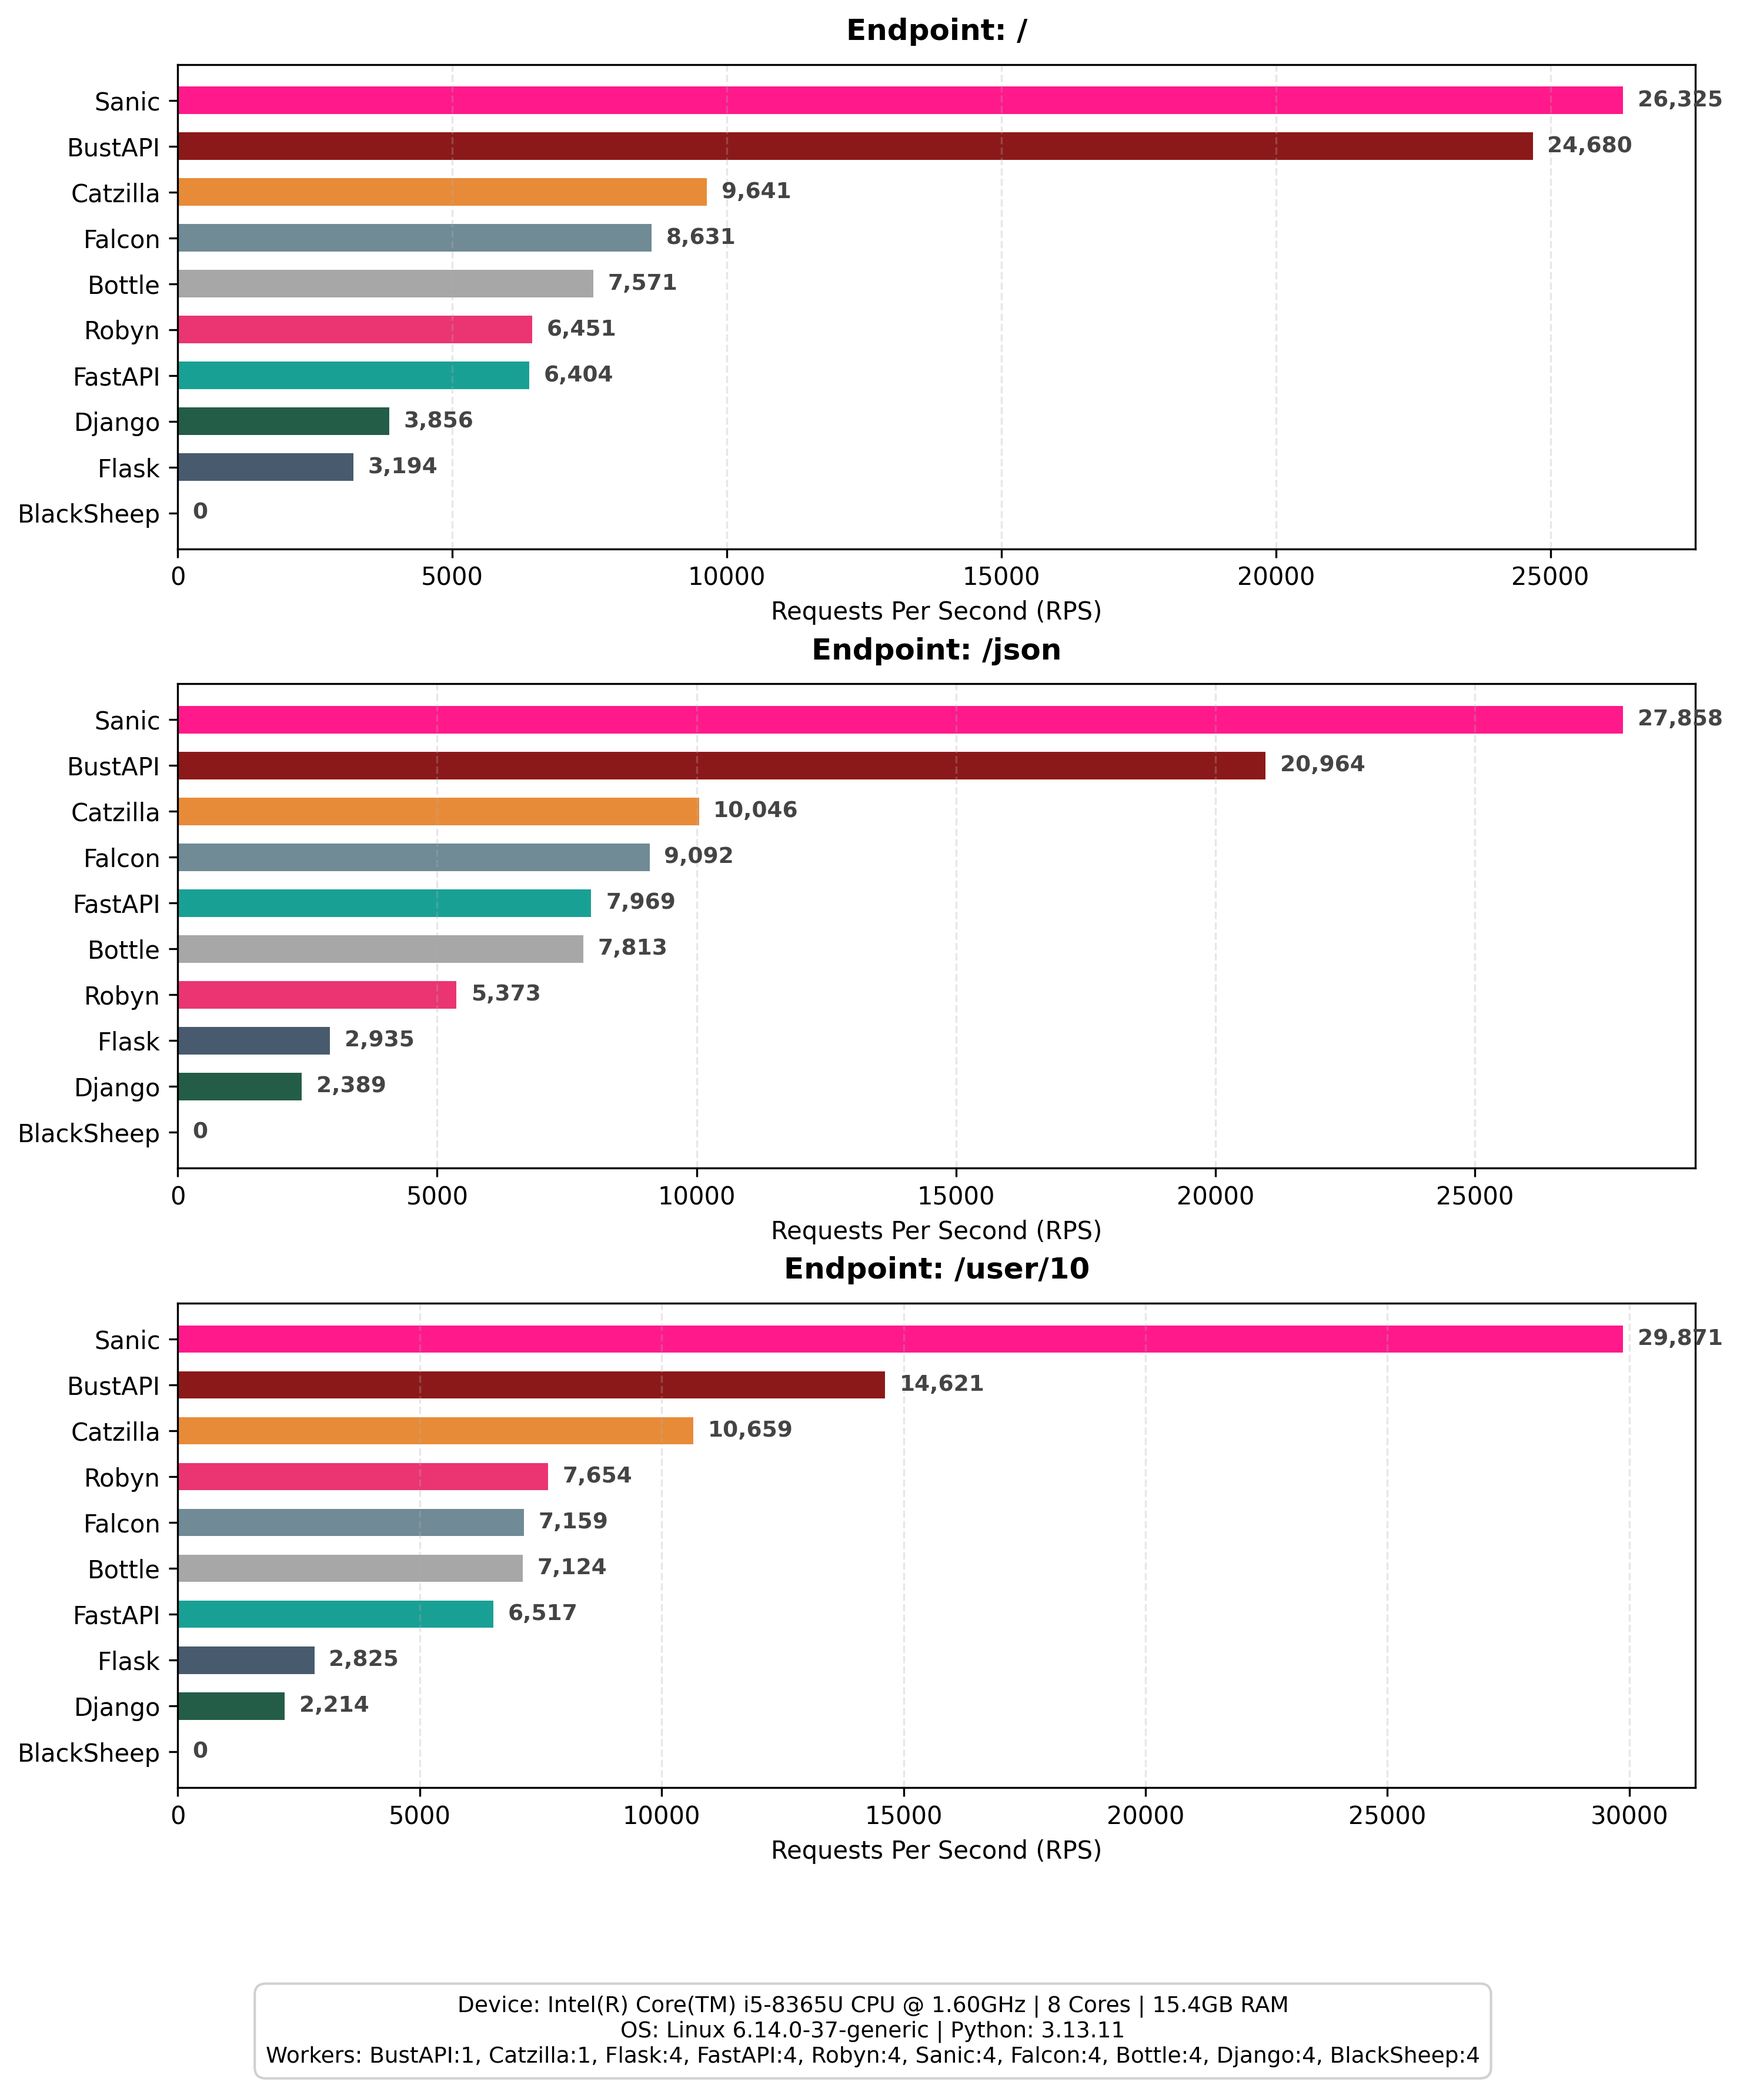
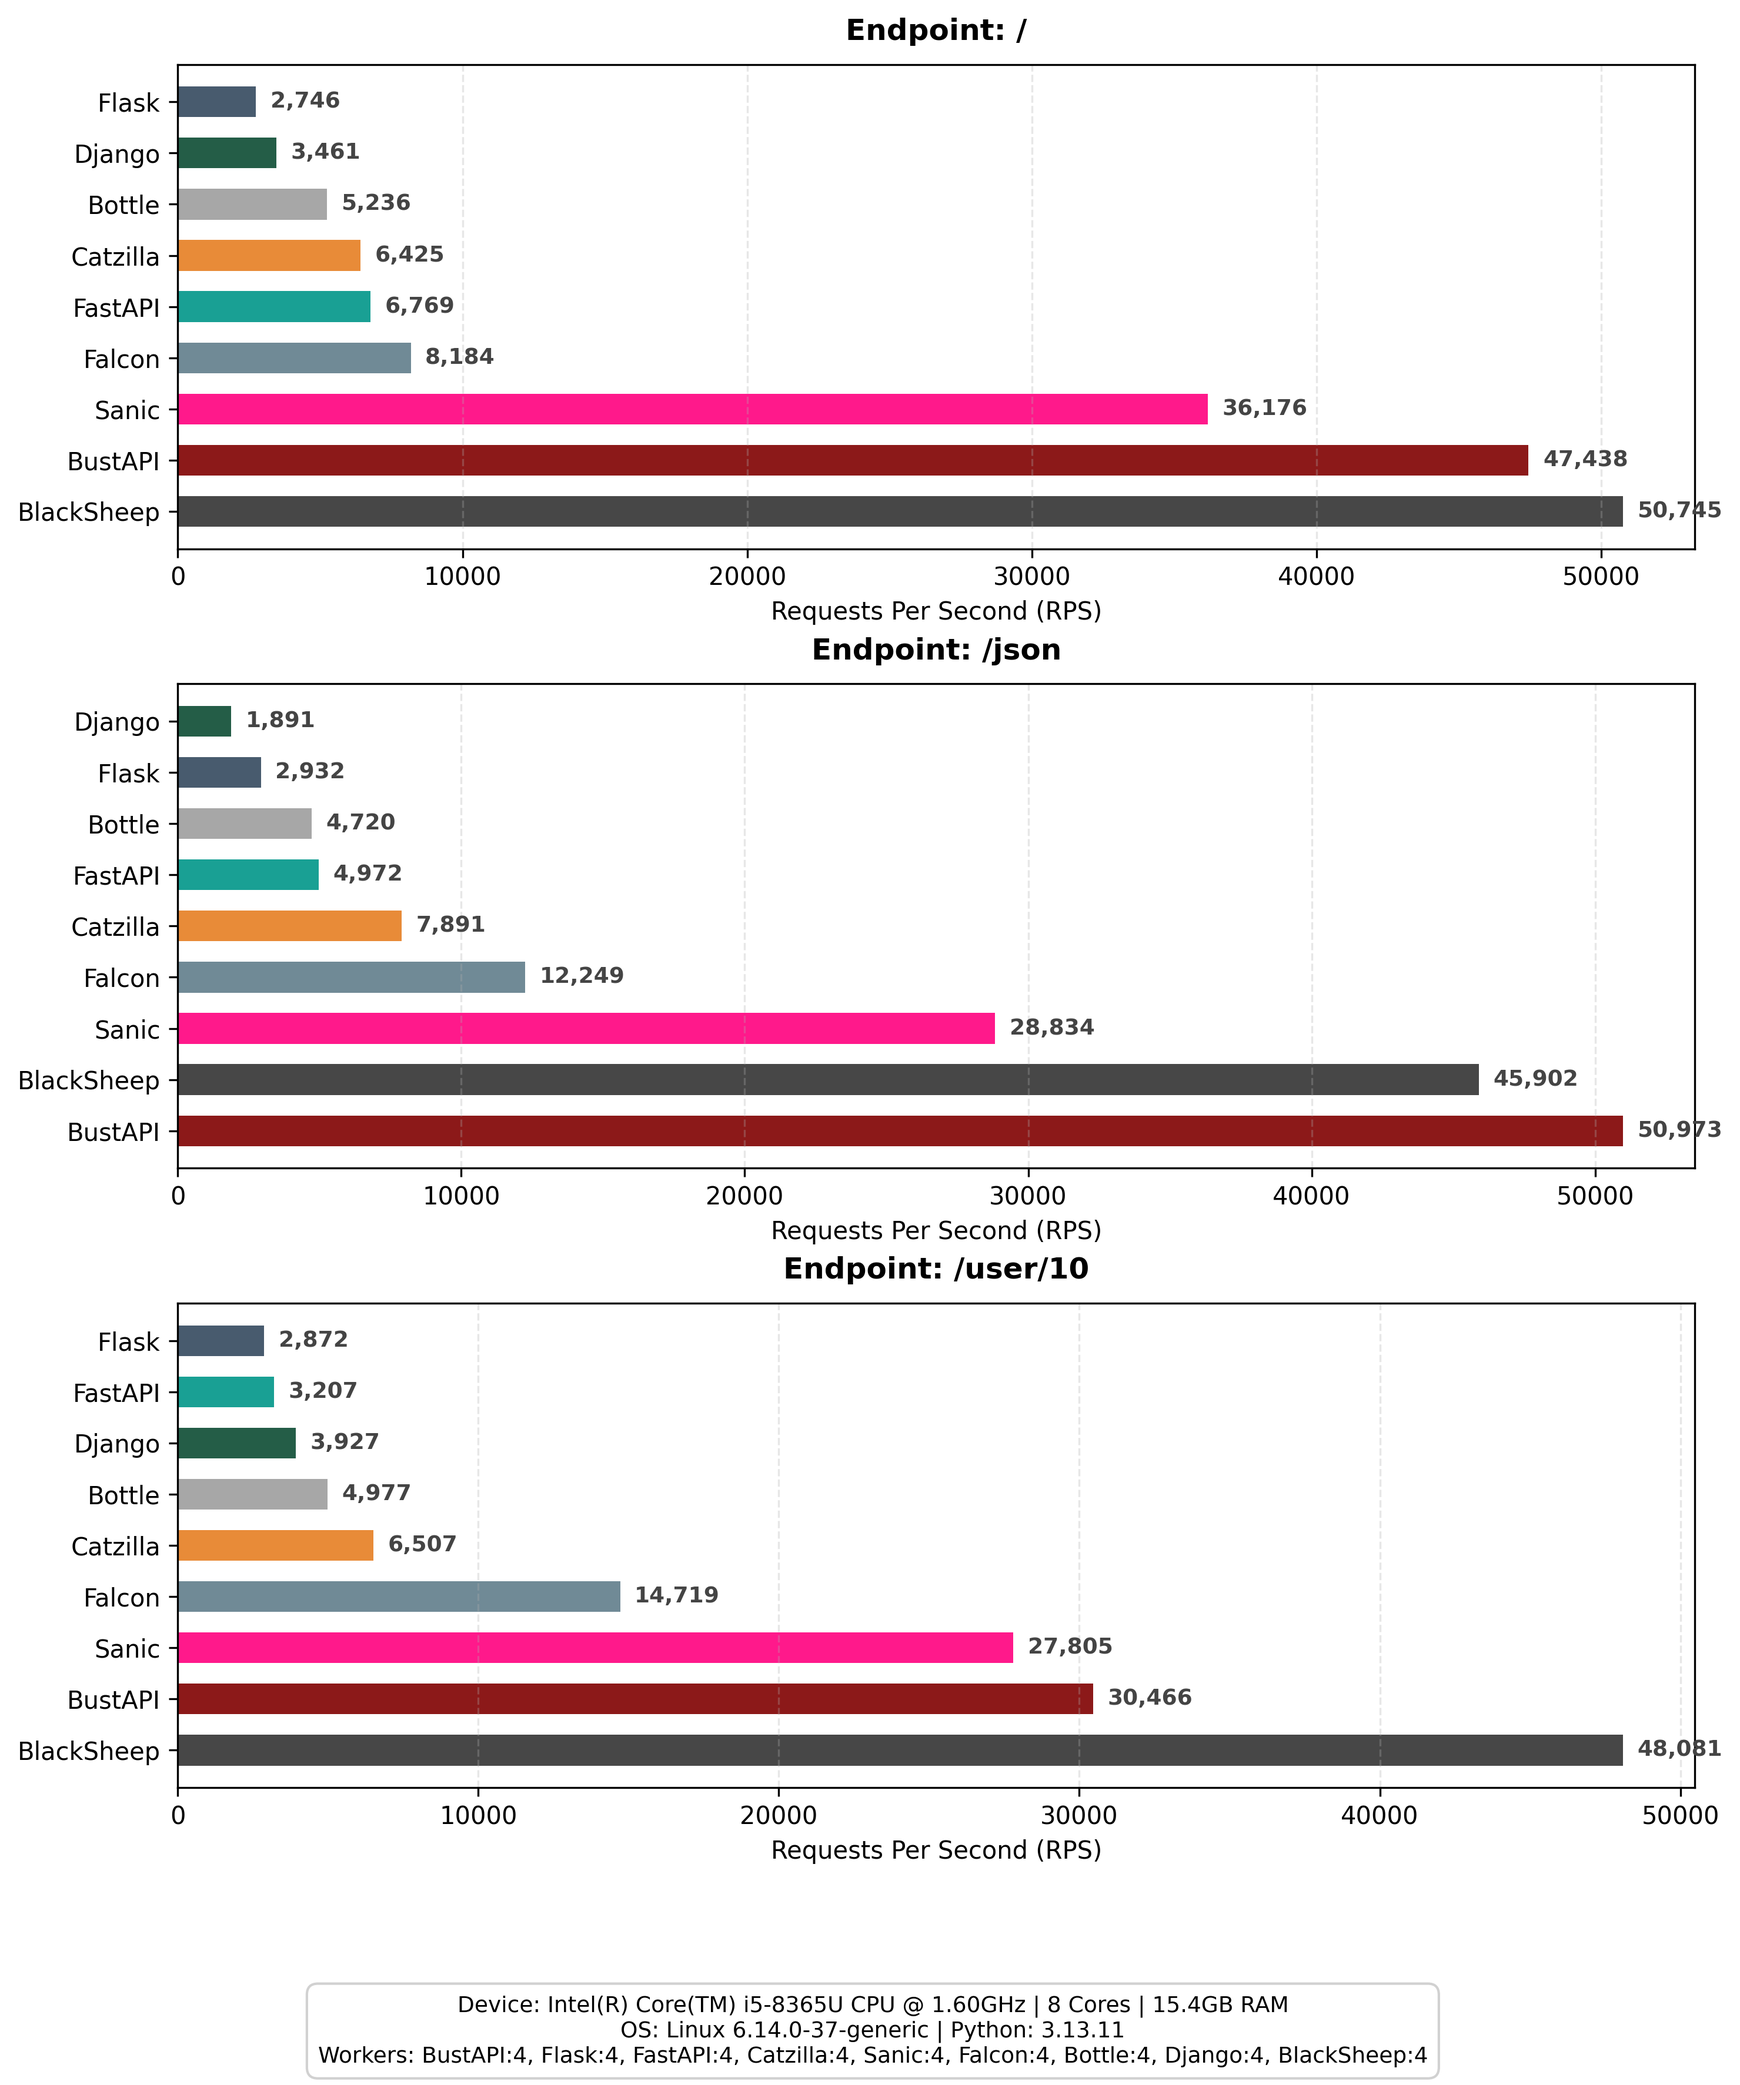
perf: Implement native multiprocessing runner (50k+ RPS)

diff --git a/python/bustapi/app.py b/python/bustapi/app.py
@@ -1115,8 +1115,53 @@ class BustAPI:
         if workers is None:
             # Default to 1 worker for debug/dev, or CPU count for prod key
             import multiprocessing
-
             workers = 1 if debug else multiprocessing.cpu_count()
+
+        # Handle Native Multiprocessing (Linux Only - SO_REUSEPORT)
+        # If server="rust" and workers > 1, we spawn processes instead of threads
+        import platform
+        if server == "rust" and workers > 1 and platform.system() == "Linux" and not debug:
+            import multiprocessing
+            import os
+            import signal
+            import sys
+            import time
+
+            # We are the parent process (Manager)
+            # We will spawn 'workers' children
+            
+            processes = []
+            print(f"🚀 Starting {workers} worker processes (Native Multiprocessing)...")
+            
+            def signal_handler(sig, frame):
+                print("\n🛑 Shutting down workers...")
+                for p in processes:
+                    if p.is_alive():
+                        p.terminate()
+                sys.exit(0)
+
+            signal.signal(signal.SIGINT, signal_handler)
+            signal.signal(signal.SIGTERM, signal_handler)
+
+            for i in range(workers):
+                # Each child runs the rust app with 1 internal worker thread
+                # The kernel loads balances via SO_REUSEPORT
+                p = multiprocessing.Process(
+                    target=self._rust_app.run,
+                    args=(host, port, 1, False),
+                    name=f"bustapi-worker-{i+1}"
+                )
+                p.start()
+                processes.append(p)
+
+            # Wait for all
+            try:
+                for p in processes:
+                    p.join()
+            except KeyboardInterrupt:
+                signal_handler(None, None)
+            
+            return
 
         # Server Dispatch
         if server == "rust":
@@ -1130,7 +1175,7 @@ class BustAPI:
         elif server == "uvicorn":
             try:
                 import uvicorn
-
+                
                 # We need to pass the app instance.
                 # If we are running from a script, we might not have the import path string handy easily
                 # But uvicorn.run can take an app instance directly.

diff --git a/benchmarks/README.md b/benchmarks/README.md
@@ -10,29 +10,29 @@
 
 ## 🏆 Throughput (Requests/sec)
 
-| Endpoint | Metrics | BustAPI (4w) | Catzilla (4w) | Flask (4w) | FastAPI (4w) | Robyn (4w) | Sanic (4w) | Falcon (4w) | Bottle (4w) | Django (4w) | BlackSheep (4w) |
-| :--- | :--- | :---: | :---: | :---: | :---: | :---: | :---: | :---: | :---: | :---: | :---: |
-| **`/`** | 🚀 RPS | **25,422** | **13,605** | **8,021** | **11,544** | **10,372** | 🥇 **72,774** | **16,573** | **15,504** | **3,975** | **52,141** |
-|  | ⏱ Avg Latency | 3.94ms | 7.99ms | 12.35ms | 8.79ms | 9.63ms | 1.37ms | 6.04ms | 6.28ms | 25.00ms | 1.94ms |
-|  | 📉 Max Latency | 17.26ms | 202.30ms | 33.24ms | 63.71ms | 29.91ms | 14.27ms | 51.29ms | 25.85ms | 95.72ms | 27.57ms |
-|  | 📦 Transfer | 3.13 MB/s | 1.92 MB/s | 1.27 MB/s | 1.62 MB/s | 1.14 MB/s | 8.12 MB/s | 2.50 MB/s | 2.45 MB/s | 0.70 MB/s | 7.31 MB/s |
-|  | 🔥 CPU Usage | 185% | 96% | 385% | 393% | 95% | 382% | 377% | 377% | 357% | 382% |
-|  | 🧠 RAM Usage | 59.5 MB | 387.8 MB | 159.6 MB | 254.1 MB | 34.9 MB | 243.2 MB | 148.0 MB | 125.7 MB | 188.0 MB | 218.3 MB |
-| | | --- | --- | --- | --- | --- | --- | --- | --- | --- | --- |
-| **`/json`** | 🚀 RPS | **25,763** | **14,063** | **7,681** | **9,729** | **10,070** | 🥇 **55,332** | **12,267** | **14,168** | **3,804** | **37,091** |
-|  | ⏱ Avg Latency | 3.91ms | 8.68ms | 12.91ms | 10.32ms | 9.99ms | 2.05ms | 7.96ms | 7.01ms | 25.66ms | 3.15ms |
-|  | 📉 Max Latency | 20.66ms | 254.78ms | 35.23ms | 44.86ms | 30.09ms | 82.04ms | 41.08ms | 38.54ms | 80.60ms | 88.86ms |
-|  | 📦 Transfer | 3.07 MB/s | 1.52 MB/s | 1.19 MB/s | 1.32 MB/s | 1.14 MB/s | 5.91 MB/s | 1.91 MB/s | 2.20 MB/s | 0.66 MB/s | 5.02 MB/s |
-|  | 🔥 CPU Usage | 187% | 96% | 517% | 384% | 96% | 380% | 366% | 379% | 355% | 367% |
-|  | 🧠 RAM Usage | 59.0 MB | 761.4 MB | 159.6 MB | 255.4 MB | 35.2 MB | 243.3 MB | 148.2 MB | 126.0 MB | 188.2 MB | 218.9 MB |
-| | | --- | --- | --- | --- | --- | --- | --- | --- | --- | --- |
-| **`/user/10`** | 🚀 RPS | **16,606** | **13,112** | **6,769** | **8,821** | **9,344** | 🥇 **63,029** | **14,133** | **13,112** | **4,213** | **46,519** |
-|  | ⏱ Avg Latency | 7.35ms | 10.40ms | 14.65ms | 11.19ms | 10.68ms | 1.58ms | 6.96ms | 7.59ms | 23.36ms | 2.20ms |
-|  | 📉 Max Latency | 38.10ms | 325.73ms | 29.73ms | 50.92ms | 28.76ms | 16.16ms | 41.19ms | 35.41ms | 51.63ms | 14.86ms |
-|  | 📦 Transfer | 1.93 MB/s | 1.85 MB/s | 1.03 MB/s | 1.17 MB/s | 1.03 MB/s | 6.55 MB/s | 2.16 MB/s | 2.00 MB/s | 0.72 MB/s | 6.17 MB/s |
-|  | 🔥 CPU Usage | 146% | 96% | 383% | 387% | 96% | 384% | 367% | 471% | 371% | 383% |
-|  | 🧠 RAM Usage | 52.3 MB | 1118.6 MB | 159.6 MB | 256.1 MB | 35.2 MB | 243.3 MB | 148.3 MB | 126.3 MB | 188.3 MB | 219.5 MB |
-| | | --- | --- | --- | --- | --- | --- | --- | --- | --- | --- |
+| Endpoint | Metrics | BustAPI (4w) | Catzilla (4w) | Flask (4w) | FastAPI (4w) | Sanic (4w) | Falcon (4w) | Bottle (4w) | Django (4w) | BlackSheep (4w) |
+| :--- | :--- | :---: | :---: | :---: | :---: | :---: | :---: | :---: | :---: | :---: |
+| **`/`** | 🚀 RPS | **47,439** | **6,426** | **2,746** | **6,769** | **36,176** | **8,185** | **5,236** | **3,461** | 🥇 **50,746** |
+|  | ⏱ Avg Latency | 2.34ms | 18.96ms | 35.61ms | 15.17ms | 2.75ms | 11.90ms | 18.57ms | 29.49ms | 2.08ms |
+|  | 📉 Max Latency | 52.33ms | 466.42ms | 80.33ms | 107.75ms | 30.92ms | 61.82ms | 66.75ms | 124.85ms | 33.60ms |
+|  | 📦 Transfer | 5.84 MB/s | 0.91 MB/s | 0.43 MB/s | 0.95 MB/s | 4.04 MB/s | 1.23 MB/s | 0.83 MB/s | 0.61 MB/s | 7.11 MB/s |
+|  | 🔥 CPU Usage | 340% | 93% | 346% | 350% | 374% | 353% | 319% | 325% | 380% |
+|  | 🧠 RAM Usage | 111.3 MB | 190.3 MB | 159.5 MB | 252.9 MB | 243.2 MB | 147.8 MB | 126.2 MB | 187.8 MB | 218.1 MB |
+| | | --- | --- | --- | --- | --- | --- | --- | --- | --- |
+| **`/json`** | 🚀 RPS | 🥇 **50,974** | **7,892** | **2,933** | **4,972** | **28,835** | **12,249** | **4,721** | **1,891** | **45,903** |
+|  | ⏱ Avg Latency | 1.99ms | 22.16ms | 33.42ms | 20.77ms | 3.43ms | 8.00ms | 20.50ms | 51.62ms | 2.22ms |
+|  | 📉 Max Latency | 23.26ms | 577.93ms | 70.97ms | 99.12ms | 28.93ms | 41.62ms | 65.43ms | 105.79ms | 16.34ms |
+|  | 📦 Transfer | 6.08 MB/s | 0.85 MB/s | 0.46 MB/s | 0.67 MB/s | 3.08 MB/s | 1.90 MB/s | 0.73 MB/s | 0.33 MB/s | 6.22 MB/s |
+|  | 🔥 CPU Usage | 358% | 96% | 364% | 323% | 372% | 350% | 316% | 298% | 382% |
+|  | 🧠 RAM Usage | 111.6 MB | 407.4 MB | 159.6 MB | 254.0 MB | 243.3 MB | 148.1 MB | 126.4 MB | 188.1 MB | 218.8 MB |
+| | | --- | --- | --- | --- | --- | --- | --- | --- | --- |
+| **`/user/10`** | 🚀 RPS | **30,467** | **6,508** | **2,872** | **3,207** | **27,805** | **14,720** | **4,977** | **3,927** | 🥇 **48,081** |
+|  | ⏱ Avg Latency | 3.36ms | 18.81ms | 34.22ms | 30.82ms | 3.58ms | 6.68ms | 19.19ms | 25.13ms | 2.10ms |
+|  | 📉 Max Latency | 39.35ms | 487.96ms | 108.00ms | 75.88ms | 31.55ms | 27.71ms | 57.06ms | 54.34ms | 18.58ms |
+|  | 📦 Transfer | 3.54 MB/s | 0.92 MB/s | 0.44 MB/s | 0.43 MB/s | 2.89 MB/s | 2.25 MB/s | 0.76 MB/s | 0.67 MB/s | 6.37 MB/s |
+|  | 🔥 CPU Usage | 360% | 94% | 362% | 318% | 367% | 374% | 329% | 363% | 384% |
+|  | 🧠 RAM Usage | 113.4 MB | 580.2 MB | 159.6 MB | 254.6 MB | 243.3 MB | 148.1 MB | 126.7 MB | 188.1 MB | 219.3 MB |
+| | | --- | --- | --- | --- | --- | --- | --- | --- | --- |
 
 ## 📊 Performance Comparison
 ![RPS Comparison](rps_comparison.png)
